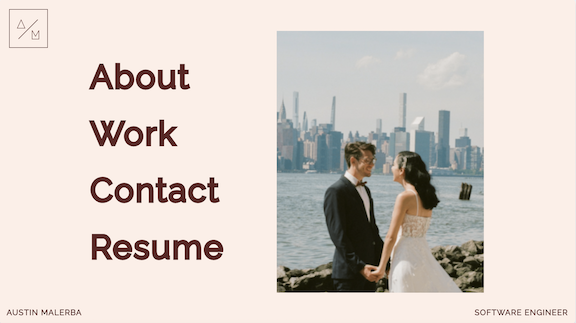
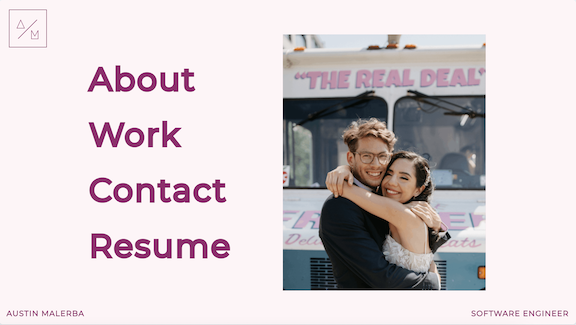
palette tweaks

diff --git a/shared/utils/colors.js b/shared/utils/colors.js
@@ -106,7 +106,18 @@ export const palettes = {
     primary: DEFAULT_THEME.colors.gray,
   },
   darkGray: {
-    primary: invert(DEFAULT_THEME.colors.gray),
+    primary: invert({
+      50: "#FFFFFF",
+      100: "#F7FAFC",
+      200: "#d5ddec",
+      300: "#97a3b4",
+      400: "#7b899d",
+      500: "#626f84",
+      600: "#4b5768",
+      700: "#343e4b",
+      800: "#1e2530",
+      900: "#1a2028",
+    }),
   },
   blackRed: {
     primary: generate(CHAKRA_THEME.colors.red[50], {

diff --git a/shared/utils/data.js b/shared/utils/data.js
@@ -47,7 +47,7 @@ export const templates = {
     defaults: {
       headingFont: "Montserrat",
       paragraphFont: "Lato",
-      palette: "desert",
+      palette: "pink",
     },
     locked: false,
     palettes: [
@@ -121,7 +121,7 @@ export const templates = {
       "pink",
       "purple",
     ],
-    locked: false,
+    locked: true,
   },
 };
 
